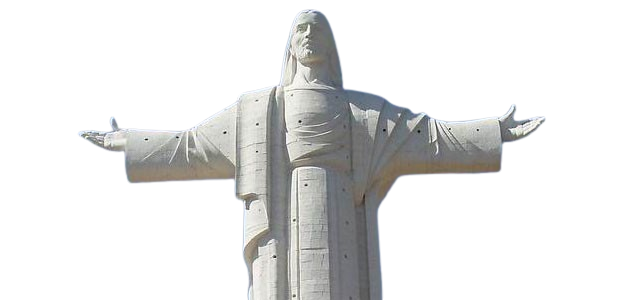
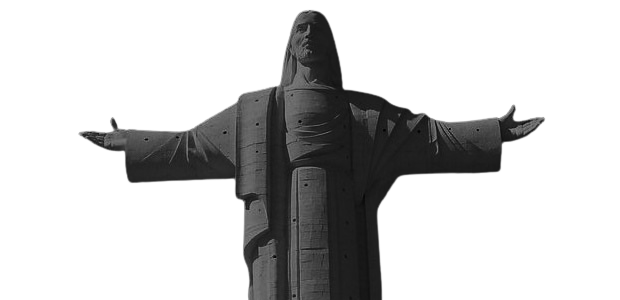
fix image at home component

Changed region(s): [[0.1226, 0.03, 0.8887, 1.0]]

diff --git a/src/index.css b/src/index.css
@@ -16,10 +16,10 @@
 
 body {
   font-family: "WinterTrendy", sans-serif;
-  /* background-image: url("cristo1.png");
+  background-image: url("cristo.png");
   background-size: cover;
   background-repeat: no-repeat;
-  background-position: center; */
+  background-position: center;
 }
 
 .custom-swiper .swiper-button-next,
